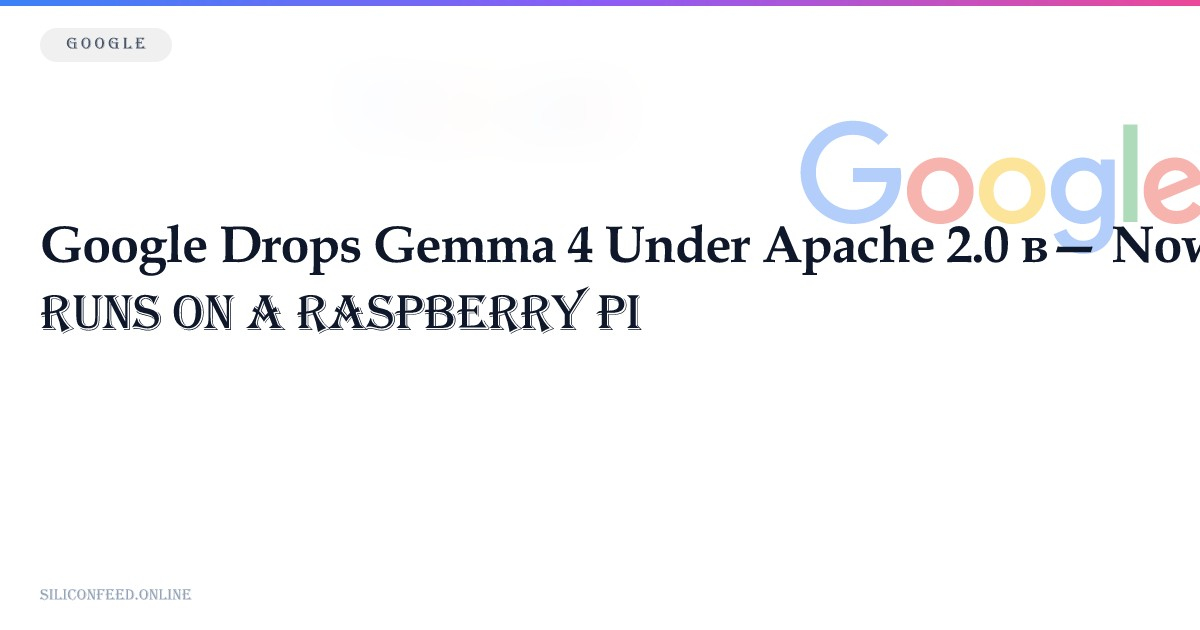
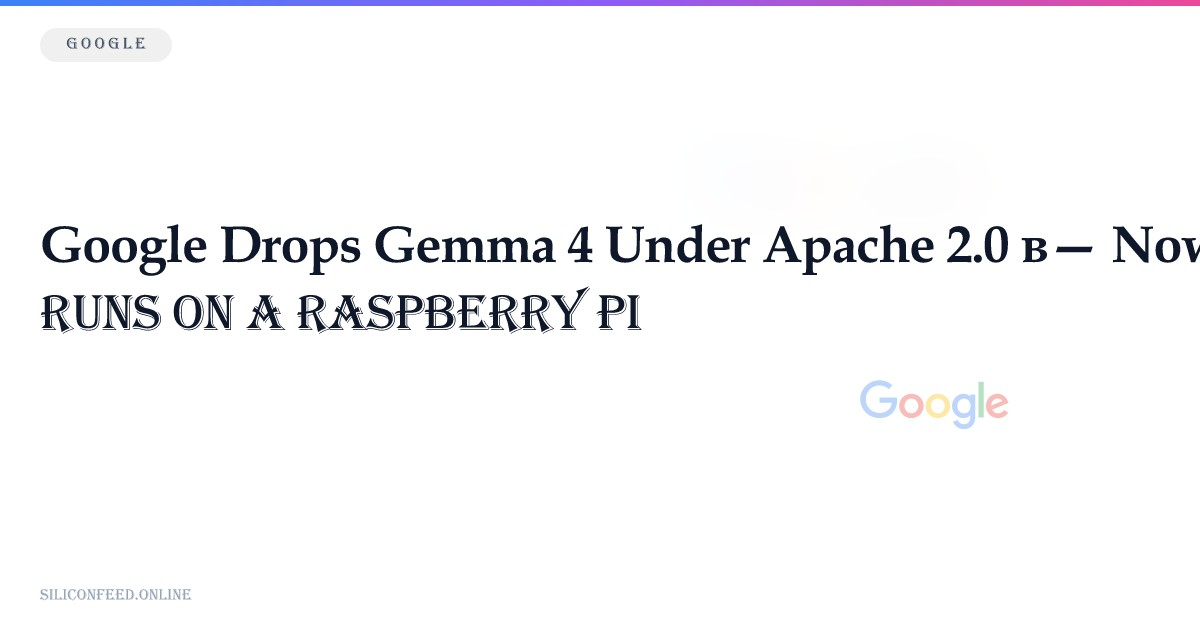
update covers

Changed region(s): [[0.6475, 0.181, 1.0, 0.4222], [0.7092, 0.6032, 0.8633, 0.6937]]

diff --git a/scripts/generate-covers.js b/scripts/generate-covers.js
@@ -111,17 +111,13 @@ function buildSVG(post) {
       const innerMatch = raw.match(/<svg[^>]*>([\s\S]*?)<\/svg>/i);
       if (innerMatch) {
         logoElements = `
-          <!-- Blurred background logo (6% opacity, 40% size center) -->
-          <g opacity="0.06" filter="url(#blur)">
-            <g transform="translate(350, 65)">
-              ${innerMatch[1]}
-            </g>
+          <!-- Blurred logo watermark — stays on right half -->
+          <g opacity="0.05" filter="url(#blur)" transform="translate(700, 140)">
+            ${innerMatch[1]}
           </g>
-          <!-- Clear logo at 40% opacity, bottom-right area -->
-          <g opacity="0.40">
-            <g transform="translate(800, 120) scale(1.5)">
-              ${innerMatch[1]}
-            </g>
+          <!-- Clear logo — bottom-right, below text -->
+          <g opacity="0.35" transform="translate(860, 380) scale(0.55)">
+            ${innerMatch[1]}
           </g>
         `;
       }
